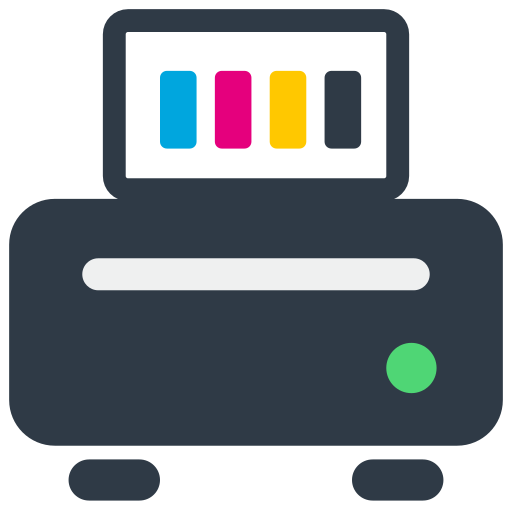
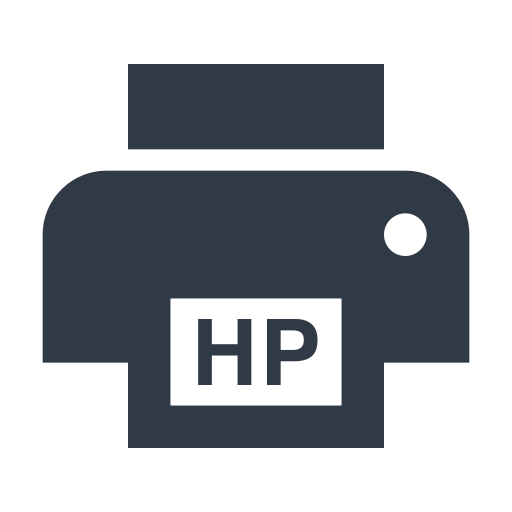
Use the Material Design printer glyph with HP lettering
Replaces the hand-drawn mark with MDI's printer glyph, which matches the
iconography Home Assistant uses everywhere else, with HP set on the output
page.

The glyph's output sheet is a cutout rather than a filled shape, so the
lettering would have sat on transparency and vanished against a light
background. The sheet is now filled explicitly, giving the letters a page to
sit on in both themes.

MDI is Apache-2.0; attribution added to the README.

diff --git a/README.md b/README.md
@@ -75,3 +75,7 @@ All access is read-only (`GET`). This integration never writes to your printer.
 ## License
 
 MIT
+
+The integration icon is derived from the `printer` glyph in
+[Material Design Icons](https://pictogrammers.com/library/mdi/) by the
+Pictogrammers group, used under the Apache License 2.0.
